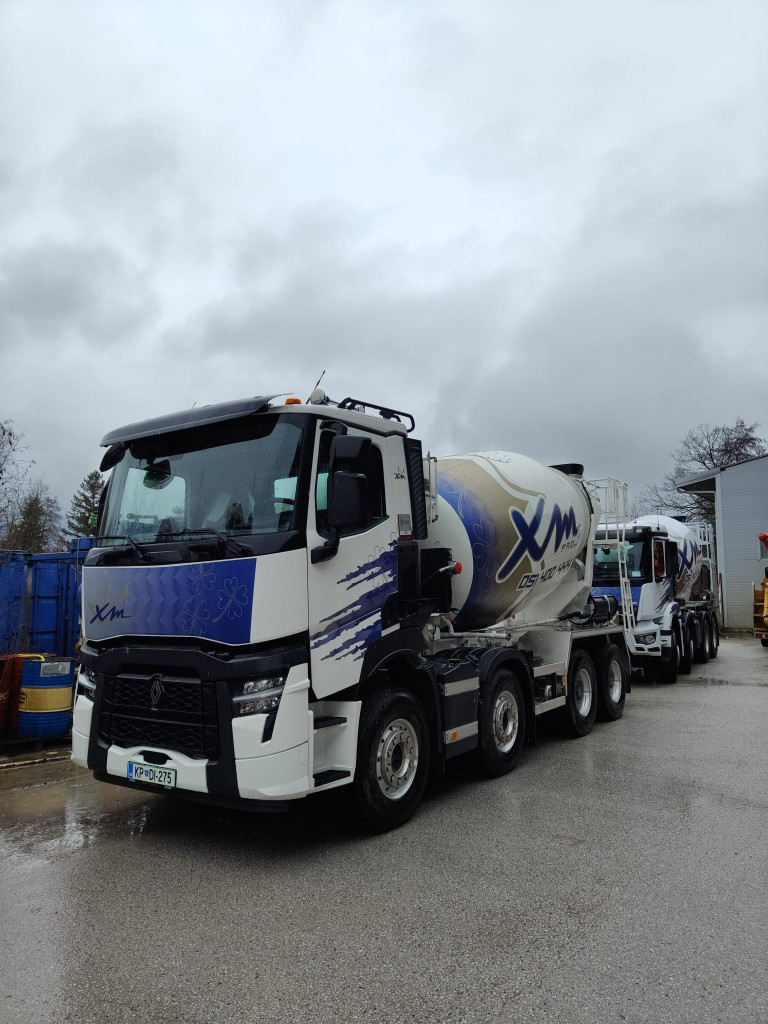
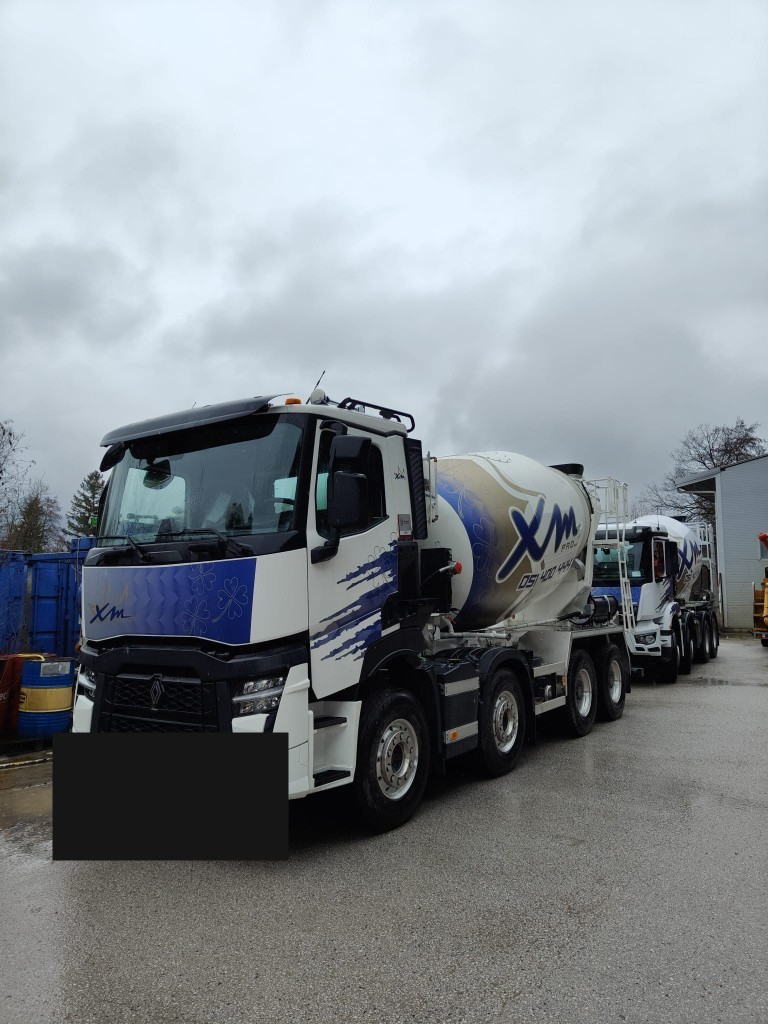
Mask truck license plates on fleet photos.

Changed region(s): [[0.0625, 0.6875, 0.375, 0.8438]]

diff --git a/index.html b/index.html
@@ -139,7 +139,7 @@
     .card ul { margin-top: 16px; padding-left: 18px; color: var(--ink); }
 
     .split { display: grid; grid-template-columns: 1.08fr .92fr; min-height: 540px; }
-    .split-img { background: url("images/kamion-flota.jpg") center 58%/cover; }
+    .split-img { background: url("images/kamion-flota.jpg?v=2") center 58%/cover; }
     .split-copy { background: var(--blue); color: #e8eef8; padding: 72px 56px; }
     .split-copy .label { color: var(--gold-soft); }
     .split-copy h2 { color: #fff; margin: 12px 0 18px; }
@@ -281,7 +281,7 @@
           </div>
         </article>
         <article class="card">
-          <img src="images/kamion-flota.jpg" alt="Vozni park XM PROJEKT">
+          <img src="images/kamion-flota.jpg?v=2" alt="Vozni park XM PROJEKT">
           <div class="card-body">
             <h3>Dobava na gradbišče</h3>
             <p>Lastni mešalci za Ljubljano in širšo okolico. Sodelujemo z izvajalci, investitorji in fizičnimi osebami.</p>
